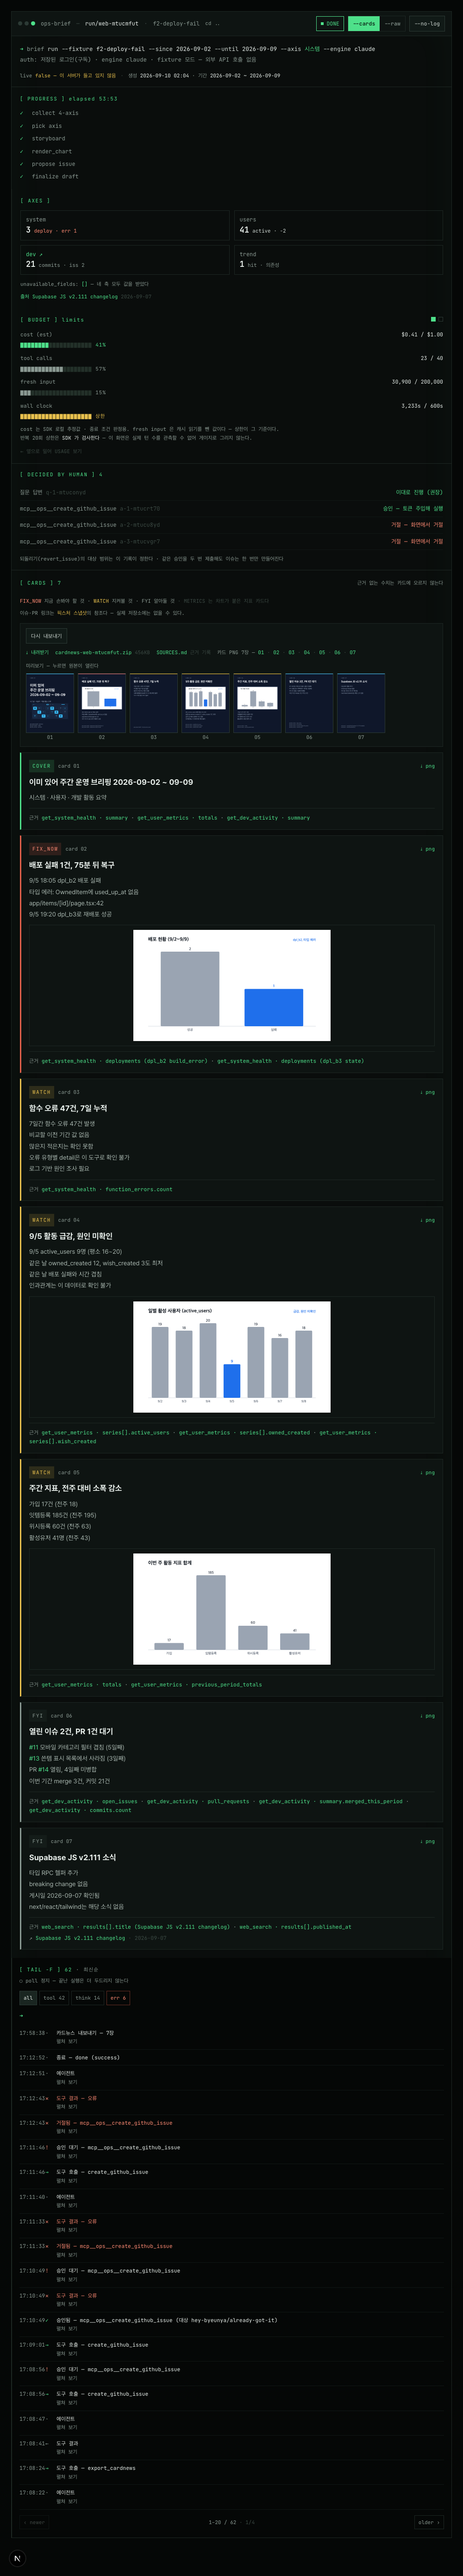
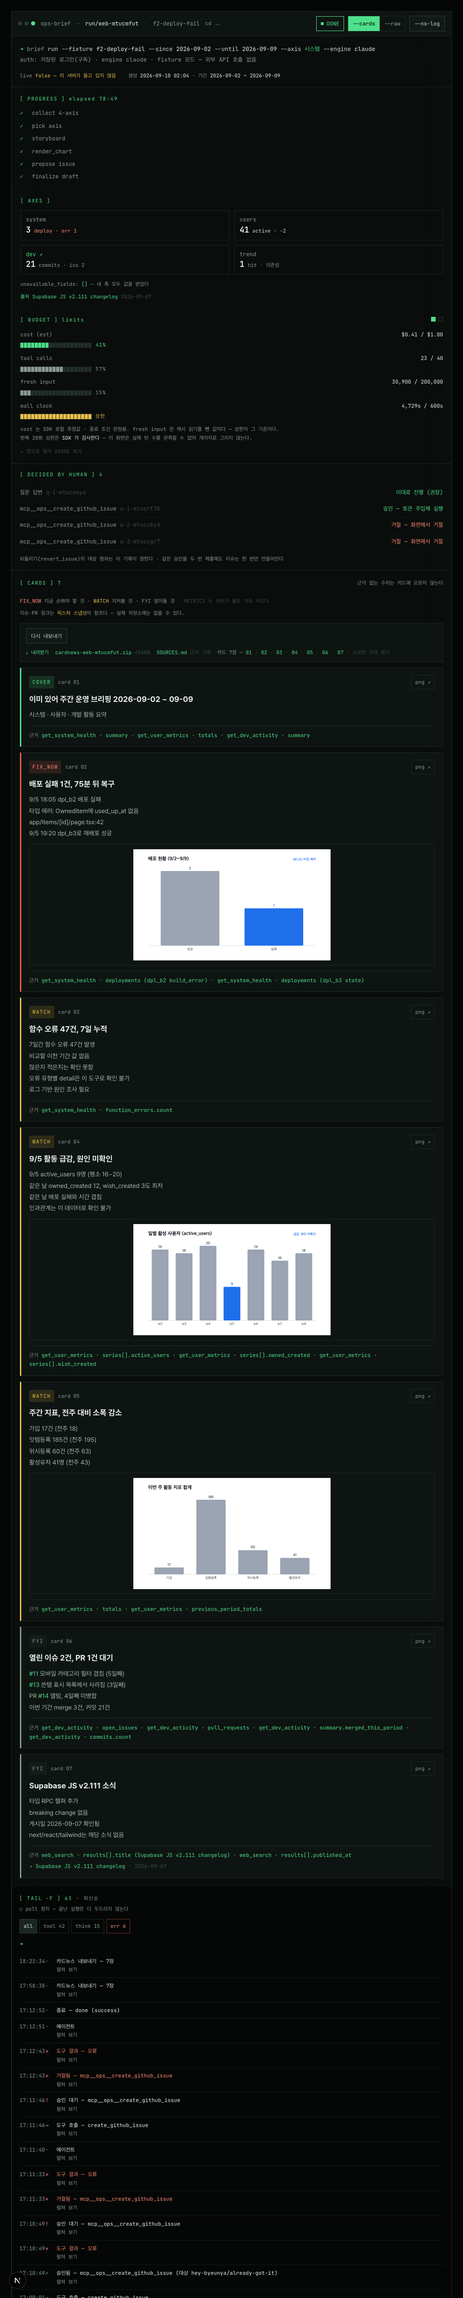
화면 다듬기 — 썸네일 제거·모달 진입점 통일·버튼 크기·기간 칸·삭제 열
1. 미리보기 썸네일 격자를 걷어냈다.
   카드 목록 바로 위에 같은 그림이 두 번 나와 화면만 길어졌다.
   대신 내려받기 줄의 카드 번호(01 · 02 …)와 카드마다 붙은 png ↗ 가 모달을 연다.
   내려받기는 모달 안의 ⤓ png 가 맡는다 — 그림 하나를 여는 길을 하나로 모았다.
   실행 상세 높이 4020 → 3430px.

2. 「카드뉴스 내보내기」를 「다시 내보내기」와 같은 크기로 맞췄다.
   .primary 는 더 크고 굵어 같은 자리에 번갈아 서면 층이 졌다.
   새 button.go 는 --cards 탭이 켜졌을 때와 같은 색(#4ee08a / #05100a)이고
   크기는 기본 버튼 그대로다 — 34px · 11.5px · 6px 10px 로 두 버튼이 일치한다.

3. 기간 선택 기본값은 최근 1주일 그대로.
   직접 선택의 날짜 칸이 300px 사이드바를 넘겨 깨지던 것을 고쳤다 —
   10.5px · padding 6px, 달력 아이콘도 어두운 배경에 맞게. 두 칸 123px 씩 들어간다.

4. 홈 목록의 삭제를 제 열(DEL)로 뺐다. 비용 아래에 얹혀 있어 어느 쪽 숫자인지 헷갈렸다.

검증: 구워 둔 것을 치우고 초록 버튼으로 다시 만들어 PNG 7장이 바이트까지 같은지 확인.
모달은 번호·png ↗ 두 경로에서 열리고 ← → esc 가 돈다. 가로 스크롤 없음.

diff --git a/app/app/runs/[id]/page.tsx b/app/app/runs/[id]/page.tsx
@@ -182,8 +182,10 @@ function ExportBar({ runId, ex, cardCount, exporting, busy, onExport, onPreview 
   const made = Boolean(ex.zip) || ex.png.length > 0;
   const stale = made && cardCount > 0 && ex.png.length !== cardCount;
 
+  // 두 버튼은 같은 자리에 번갈아 서므로 크기가 같아야 한다 (.primary 는 더 크고 굵다).
+  // 아직 안 구웠을 때만 --cards 탭과 같은 초록으로 눈에 띄게 한다.
   const button = (
-    <button className={made ? undefined : 'primary'}
+    <button className={made ? undefined : 'go'}
       disabled={busy || exporting || cardCount === 0}
       onClick={onExport}
       title={cardCount === 0 ? '내보낼 카드가 없다' : ''}>
@@ -224,41 +226,28 @@ function ExportBar({ runId, ex, cardCount, exporting, busy, onExport, onPreview 
       {ex.sources && <a href={`${base}/sources`} download>SOURCES.md <span className="fnt">근거 기록</span></a>}
       {ex.png.length > 0 && (
         <span className="mut">
-          카드 PNG {ex.png.length}장{ex.png.length !== cardCount && cardCount > 0
+          카드 {ex.png.length}장{ex.png.length !== cardCount && cardCount > 0
             ? <span className="wrn"> (카드 {cardCount}장 중)</span> : ''}
           {' — '}
+          {/*
+            번호를 누르면 모달로 크게 본다. 내려받기는 모달 안의 ⤓ png 가 한다.
+            썸네일 격자를 따로 두었더니 카드 목록 바로 위에 같은 그림이 두 번 나와
+            화면만 길어졌다 — 격자를 걷어내고 이 줄에 모달을 붙였다.
+          */}
           {ex.png.map((p, i) => (
             <span key={p.card_no}>
               {i > 0 && <span className="fnt"> · </span>}
-              <a href={`${base}/${String(p.card_no).padStart(2, '0')}.png`} download>
+              <button className="linky" onClick={() => onPreview(i)}
+                title={`카드 ${String(p.card_no).padStart(2, '0')} 크게 보기 · ${kb(p.bytes)}`}>
                 {String(p.card_no).padStart(2, '0')}
-              </a>
+              </button>
             </span>
           ))}
+          <span className="fnt"> · 누르면 크게 본다</span>
         </span>
       )}
       </div>
 
-      {/* 미리보기 — 구워진 그림이 실제로 어떻게 나왔는지 본다. */}
-      {ex.png.length > 0 && (
-        <div>
-          <div className="note" style={{ marginBottom: 6 }}>미리보기 — 누르면 원본이 열린다</div>
-          <div style={{ display: 'grid', gridTemplateColumns: 'repeat(auto-fill,minmax(96px,1fr))', gap: 8 }}>
-            {ex.png.map((p, i) => {
-              const nn = String(p.card_no).padStart(2, '0');
-              return (
-                <button key={p.card_no} onClick={() => onPreview(i)}
-                  title={`카드 ${nn} · ${kb(p.bytes)}`}
-                  style={{ padding: 0, background: 'transparent', border: 'none' }}>
-                  <img src={`${base}/${nn}.png?inline`} alt={`카드 ${nn} 미리보기`}
-                    style={{ display: 'block', width: '100%', border: '1px solid var(--line-hi)' }} />
-                  <span className="note" style={{ display: 'block', textAlign: 'center' }}>{nn}</span>
-                </button>
-              );
-            })}
-          </div>
-        </div>
-      )}
     </div>
   );
 }
@@ -1009,10 +998,15 @@ function CardsPane({ cards, charts, runId, links, exports: ex, exporting, busy, 
             <div className="row" style={{ gap: 9, marginBottom: 9, fontSize: 11 }}>
               <span className="cardkind" style={{ background: sev.bg, color: sev.ink }}>{c.severity}</span>
               <span className="mut">card {String(c.card_no).padStart(2, '0')}</span>
-              {ex.png.some((p) => p.card_no === c.card_no) && (
-                <a href={`/api/runs/${runId}/export/${String(c.card_no).padStart(2, '0')}.png`}
-                  download style={{ marginLeft: 'auto' }}>⤓ png</a>
-              )}
+              {(() => {
+                // 같은 그림을 열 길을 하나로 모은다 — 모달 안에 내려받기가 있다.
+                const at = ex.png.findIndex((p) => p.card_no === c.card_no);
+                if (at < 0) return null;
+                return (
+                  <button className="chip" style={{ marginLeft: 'auto' }}
+                    onClick={() => onPreview(at)}>png ↗</button>
+                );
+              })()}
             </div>
             <h3>{linkRefs(c.title, links)}</h3>
             {c.body.length > 0 && (

diff --git a/app/app/page.tsx b/app/app/page.tsx
@@ -192,7 +192,8 @@ export default function Home() {
     halted: runs.filter((r) => r.status === 'stopped' || r.status === 'interrupted').length,
     failed: runs.filter((r) => r.status === 'failed').length,
   };
-  const rowCols = narrow ? 'minmax(0,1fr) auto' : '190px 168px minmax(0,1fr) 96px';
+  // 삭제는 제 열을 갖는다 — 비용 아래에 얹으면 어느 쪽 숫자인지 헷갈린다.
+  const rowCols = narrow ? 'minmax(0,1fr) auto' : '190px 168px minmax(0,1fr) 88px 62px';
   const lim = data?.limits;
   const live = data?.mode === 'live';
 
@@ -240,6 +241,7 @@ export default function Home() {
               }}>
                 <span>RUN</span><span>STATUS</span><span>RESULT</span>
                 <span style={{ textAlign: 'right' }}>COST</span>
+                <span style={{ textAlign: 'right' }}>DEL</span>
               </div>
             )}
 
@@ -280,21 +282,21 @@ export default function Home() {
                         <button className="chip" onClick={() => void removeRun(r.run_id)}
                           style={confirmDelete === r.run_id
                             ? { borderColor: 'var(--danger)', color: 'var(--danger-ink)' } : undefined}>
-                          {confirmDelete === r.run_id ? '정말 지운다' : 'del'}
+                          {confirmDelete === r.run_id ? '확인 — 한 번 더' : 'del'}
                         </button>
                       </span>
                     </span>
                   ) : (
                     <>
                       <span className="prose" style={{ fontSize: 12.5, color: 'var(--text)' }}>{r.result}</span>
+                      <span style={{ textAlign: 'right' }}>{cost}</span>
                       <span style={{ textAlign: 'right' }}>
-                        {cost}
-                        <br />
                         <button className="chip" onClick={() => void removeRun(r.run_id)}
+                          title={confirmDelete === r.run_id ? '한 번 더 누르면 지운다' : '이 실행을 지운다'}
                           style={confirmDelete === r.run_id
-                            ? { marginTop: 4, borderColor: 'var(--danger)', color: 'var(--danger-ink)' }
-                            : { marginTop: 4 }}>
-                          {confirmDelete === r.run_id ? '정말 지운다' : 'del'}
+                            ? { borderColor: 'var(--danger)', color: 'var(--danger-ink)' }
+                            : undefined}>
+                          {confirmDelete === r.run_id ? '확인' : 'del'}
                         </button>
                       </span>
                     </>

diff --git a/app/app/globals.css b/app/app/globals.css
@@ -141,6 +141,17 @@ button.tab {
 button.tab[aria-pressed='true'] { background: var(--accent); color: var(--on-accent); }
 .tabs { display: flex; border: 1px solid var(--line); }
 
+/*
+ * 초록 채움 버튼. `--cards` 탭이 켜졌을 때와 같은 색이고,
+ * 크기는 기본 버튼 그대로다 — 옆에 서는 「다시 내보내기」와 나란히 보여야 한다.
+ * .primary 는 더 크고 굵어서 같은 줄에 두면 층이 진다.
+ */
+button.go {
+  background: var(--accent); border-color: var(--accent); color: var(--on-accent);
+  font-weight: 500;
+}
+button.go:hover:not(:disabled) { background: var(--accent-hi); border-color: var(--accent-hi); }
+
 /* 세그먼트 — 상태 전환용 작은 토글 */
 button.seg {
   font-size: 11px; padding: 5px 9px;
@@ -149,6 +160,13 @@ button.seg {
 button.seg[aria-pressed='true'] {
   background: var(--seg); border-color: var(--accent); color: var(--ink);
 }
+
+/* 링크처럼 보이지만 페이지를 떠나지 않는 버튼. */
+button.linky {
+  font: inherit; padding: 0; background: transparent; border: none;
+  color: var(--accent); cursor: pointer;
+}
+button.linky:hover { color: var(--accent-hi); }
 
 button.dot {
   width: 10px; height: 10px; padding: 0;
@@ -169,10 +187,21 @@ button.opt .d {
 
 /* ─────────────────────────────────────────── 입력 */
 
-select, input[type=text] {
+select, input[type=text], input[type=date] {
   font: inherit; font-size: 12px; width: 100%;
   padding: 8px 10px; border-radius: 0;
   border: 1px solid var(--line-hi); background: var(--deep); color: var(--text);
+}
+
+/*
+ * 날짜 칸은 두 개가 300px 사이드바에 나란히 들어간다.
+ * 기본 크기로는 브라우저가 그리는 «2026. 09. 02.» 와 달력 아이콘이 칸을 넘겨 깨진다.
+ */
+input[type=date] {
+  font-size: 10.5px; padding: 6px 6px; min-width: 0;
+}
+input[type=date]::-webkit-calendar-picker-indicator {
+  filter: invert(1) opacity(.45); margin-left: 0; padding: 0; cursor: pointer;
 }
 select:focus, input[type=text]:focus, button:focus-visible {
   outline: 1px solid var(--accent); outline-offset: 1px;
